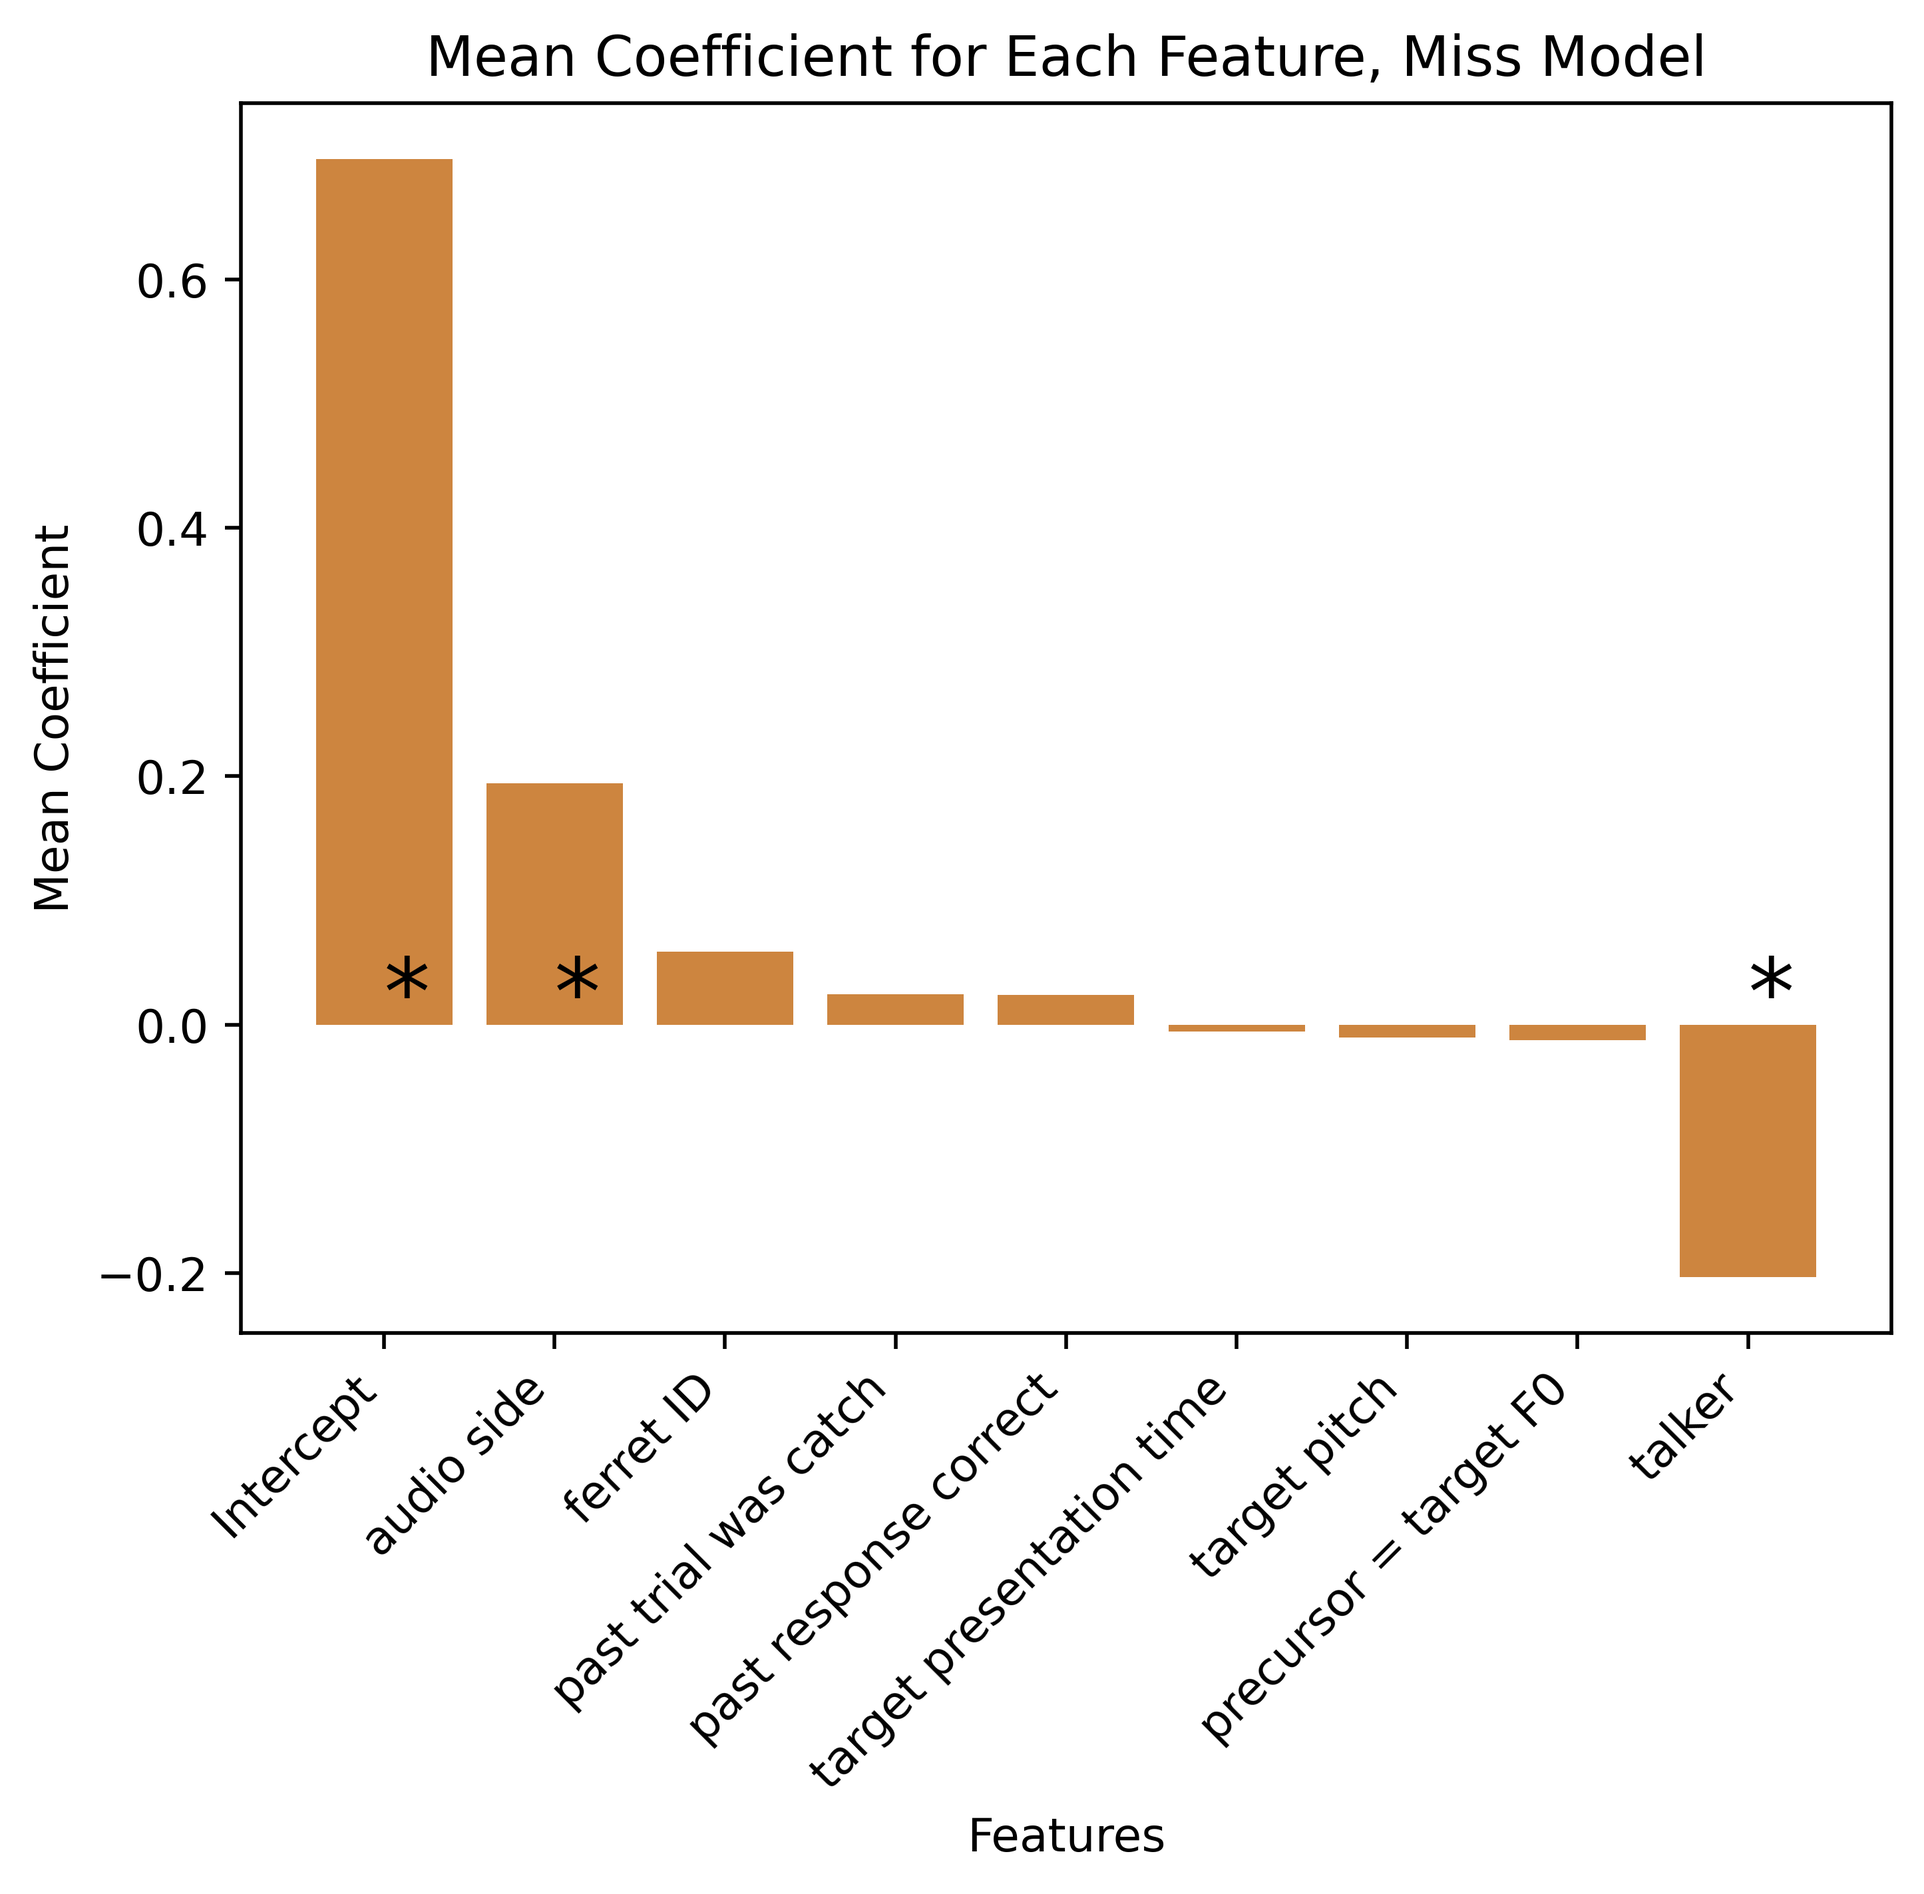
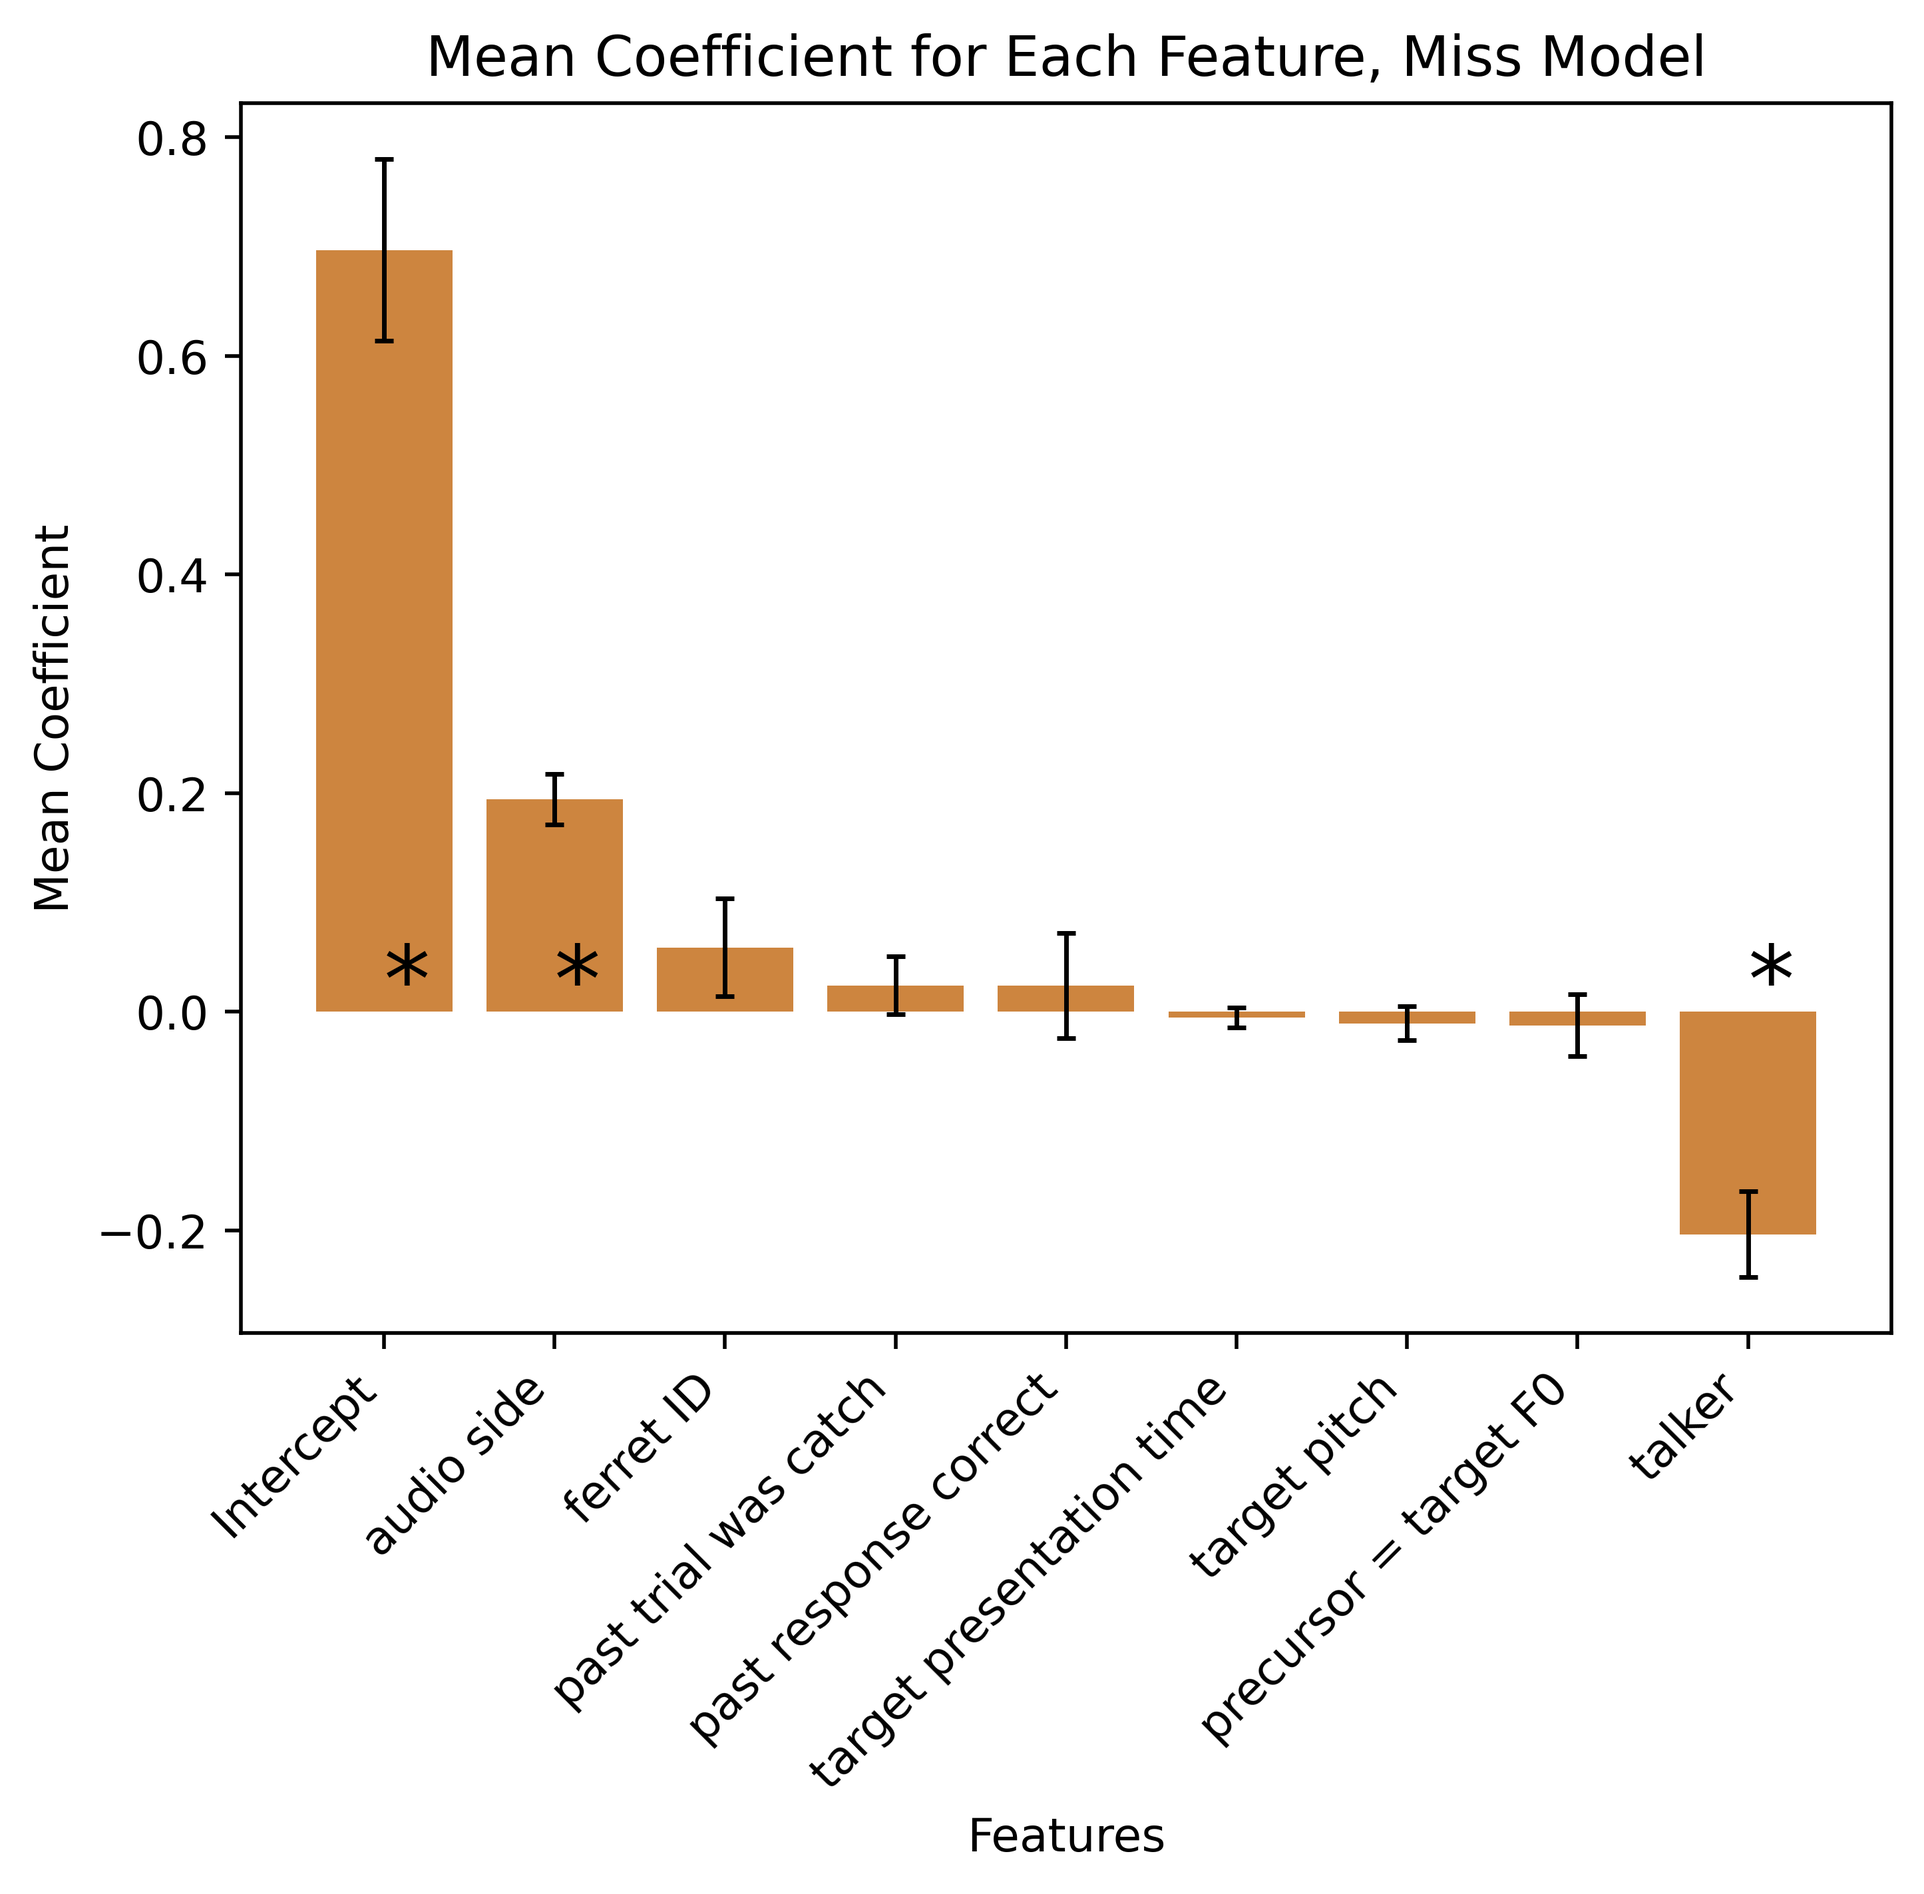
posthoc tests

diff --git a/models/correctrespmissmodel.py b/models/correctrespmissmodel.py
@@ -114,11 +114,6 @@ def run_mixed_effects_model_correctresp(df):
     #calculate the probability of a miss when the targtimes >=5.5
     df['misslist'] = df['misslist'].astype(int)
     df['targTimes'] = df['targTimes'].astype(float)
-
-    df_hightargtime = df[df['targTimes'] >= 5.5]
-
-
-
     kf = KFold(n_splits=5, shuffle=True, random_state=123)
     fold_index = 1
     train_acc = []
@@ -231,6 +226,7 @@ def run_mixed_effects_model_correctresp(df):
 
     result_coefficients = result_coefficients.sort_values(by='coefficients', ascending=False)
     ax.bar(result_coefficients.index, result_coefficients['coefficients'], color = 'peru')
+    ax.errorbar(result_coefficients.index, result_coefficients['coefficients'], yerr=result_coefficients['std_error'], fmt='none', ecolor='black', elinewidth=1, capsize=2)
     # ax.set_xticklabels(result_coefficients['features'], rotation=45, ha='right')
     # if the mean p value is less than 0.05, then add a star to the bar plot
     for i in range(len(result_coefficients)):
@@ -247,13 +243,14 @@ def run_mixed_effects_model_correctresp(df):
     print(np.mean(train_acc))
     print(np.mean(test_acc))
     mean_coefficients = pd.DataFrame(coefficients).mean()
+    mean_coefficients = pd.concat([mean_coefficients, p_values_df, std_error_df], axis=1, keys=['coefficients', 'p_values', 'std_error'])
     print(mean_coefficients)
     mean_coefficients.to_csv('mixedeffects_csvs/correctresp_mean_coefficients.csv')
 
     mean_random_effects = random_effects_df.mean(axis=0)
     print(mean_random_effects)
     big_df = pd.concat([mean_coefficients, mean_random_effects], axis=0)
-    big_df.to_csv('mixedeffects_csvs/correctresp_mean_coefficients_and_random_effects.csv')
+    mean_random_effects.to_csv('mixedeffects_csvs/random_effects.csv')
 
     #export to dataframe
     # np.savetxt(f"mixedeffects_csvs/correctresp_balac_train_mean.csv", [np.mean(train_acc)], delimiter=",")
@@ -898,7 +895,7 @@ def run_correct_responsepipeline(ferrets):
         ferret_as_feature = True
 
     xg_reg2, ypred2, y_test2, results2, shap_values, X_train, y_train, bal_accuracy, shap_values2 = runlgbcorrectrespornotwithoptuna(
-        resultingcr_df, optimization=True, ferret_as_feature = ferret_as_feature, one_ferret=one_ferret, ferrets=ferrets)
+        resultingcr_df, optimization=False, ferret_as_feature = ferret_as_feature, one_ferret=one_ferret, ferrets=ferrets)
     return xg_reg2, ypred2, y_test2, results2, shap_values, X_train, y_train, bal_accuracy, shap_values2
 
 

diff --git a/models/reactiontimeforFAandtargmodel.py b/models/reactiontimeforFAandtargmodel.py
@@ -291,12 +291,12 @@ def runlgbreleasetimes(X, y, paramsinput=None, ferret_as_feature=False, one_ferr
     mae_test = cross_val_score(xg_reg, X_test, y_test, scoring='neg_median_absolute_error', cv=kfold)
     r2_test = cross_val_score(xg_reg, X_test, y_test, scoring='r2', cv=kfold)
     print("MSE on test: %.4f" % (np.mean(mse_test)))
-    print("negative MSE training: %.2f%%" % (np.mean(results) * 100.0))
+    print("negative MSE training: %.4f" % (np.mean(results)))
     print('r2 on test: %.4f' % (np.mean(r2_test)))
     print('r2 on training: %.4f' % (np.mean(results_r2)))
     mae = median_absolute_error(ypred, y_test)
     print("MAE on test: %.4f" % (np.mean(mae_test)))
-    print("negative MAE training: %.2f%%" % (np.mean(results_mae) * 100.0))
+    print("negative MAE training: %.2f" % (np.mean(results_mae)))
 
     # export all scoring results
     trainandtestaccuracy = {
@@ -1476,7 +1476,7 @@ def main():
     # ferrets = ['F1815_Cruella']# , 'F2105_Clove']
     # ferrets = ['F1815_Cruella', 'F1803_Tina', 'F2002_Macaroni', 'F2105_Clove']
 
-    predict_rxn_time_with_dist_model(ferrets, optimization=False, ferret_as_feature=False, talker=2, noise_floor=True)
+    predict_rxn_time_with_dist_model(ferrets, optimization=False, ferret_as_feature=False, talker=2, noise_floor=False)
 
     # for ferret in ferrets:
     #     predict_rxn_time_with_dist_model([ferret], optimization=False, ferret_as_feature=False, talker = 1)

diff --git a/models/plotstatsacrossanimals.py b/models/plotstatsacrossanimals.py
@@ -1634,9 +1634,9 @@ def run_repeated_anova(stats_dict_inter, stats_dict_intra, stats_dict_control):
                 female_tukey['talker'] = np.ones(len(female_tukey))
                 male_tukey['talker'] = np.ones(len(male_tukey)) * 2
                 posthoc = pd.concat([female_tukey, male_tukey])
-        else:
-            # No interaction, perform comparisons for roving type only
-            posthoc = pg.pairwise_tukey(data=stats_dict_all, dv=value, between='roving_type')
+            else:
+                # No interaction, perform comparisons for roving type only
+                posthoc = pg.pairwise_tukey(data=stats_dict_all, dv=value, between='roving_type')
         numerator = anovaresults['F'][0] * anovaresults['ddof1'][0]
         denominator = numerator + anovaresults['ddof2'][0]
         partial_eta_squared = numerator / denominator
